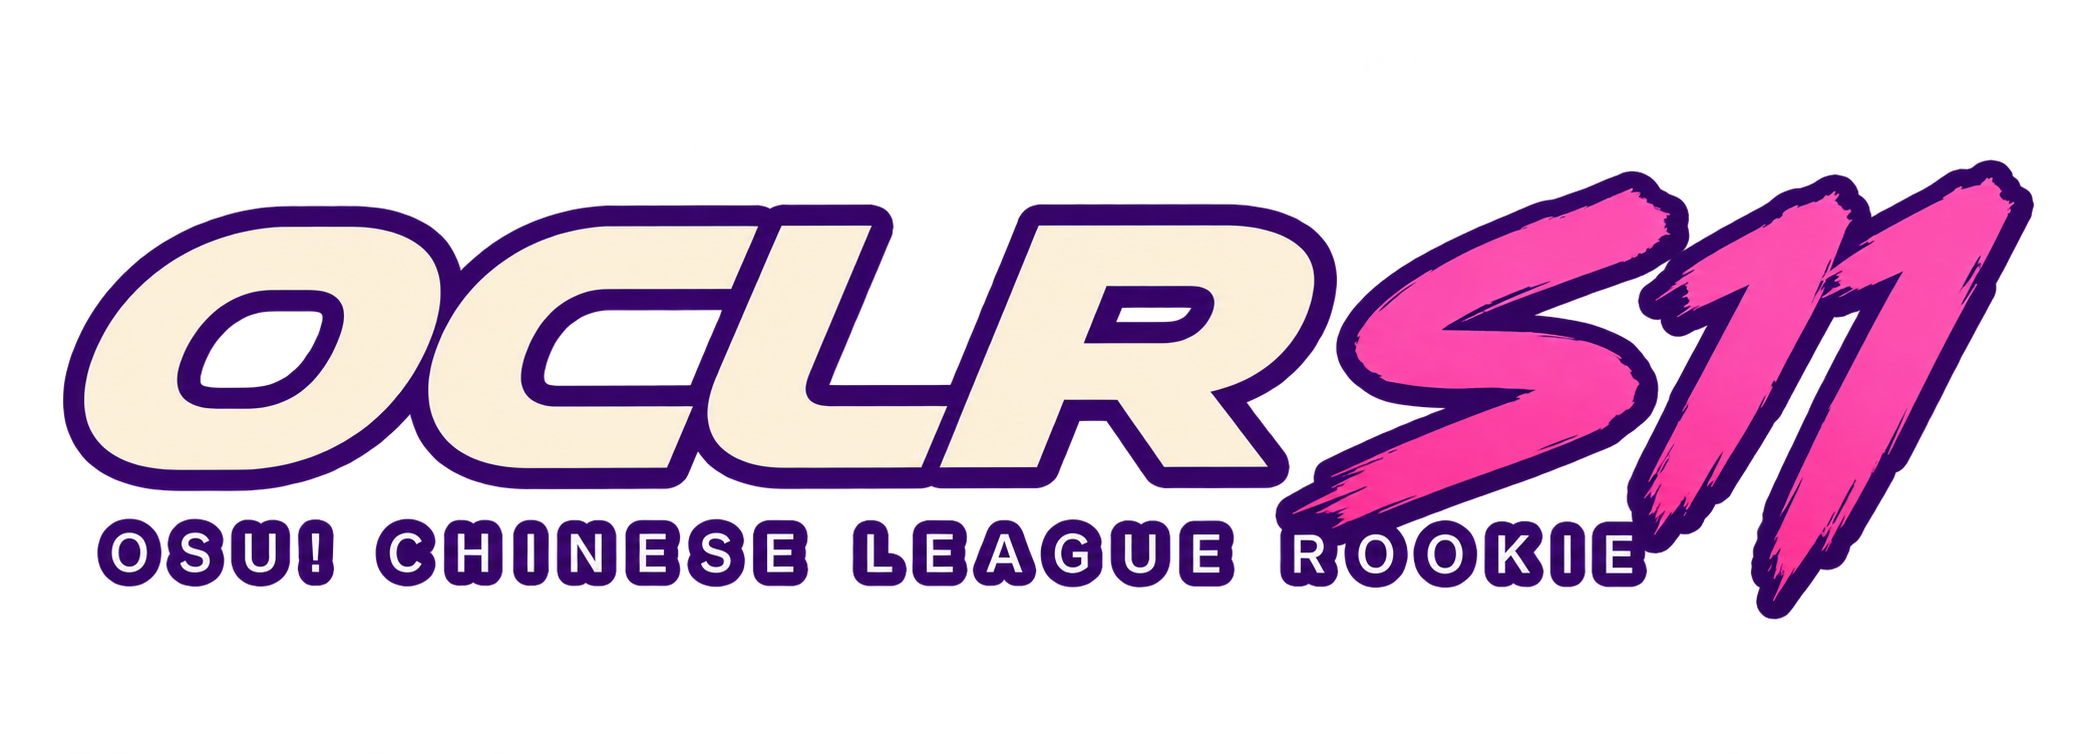
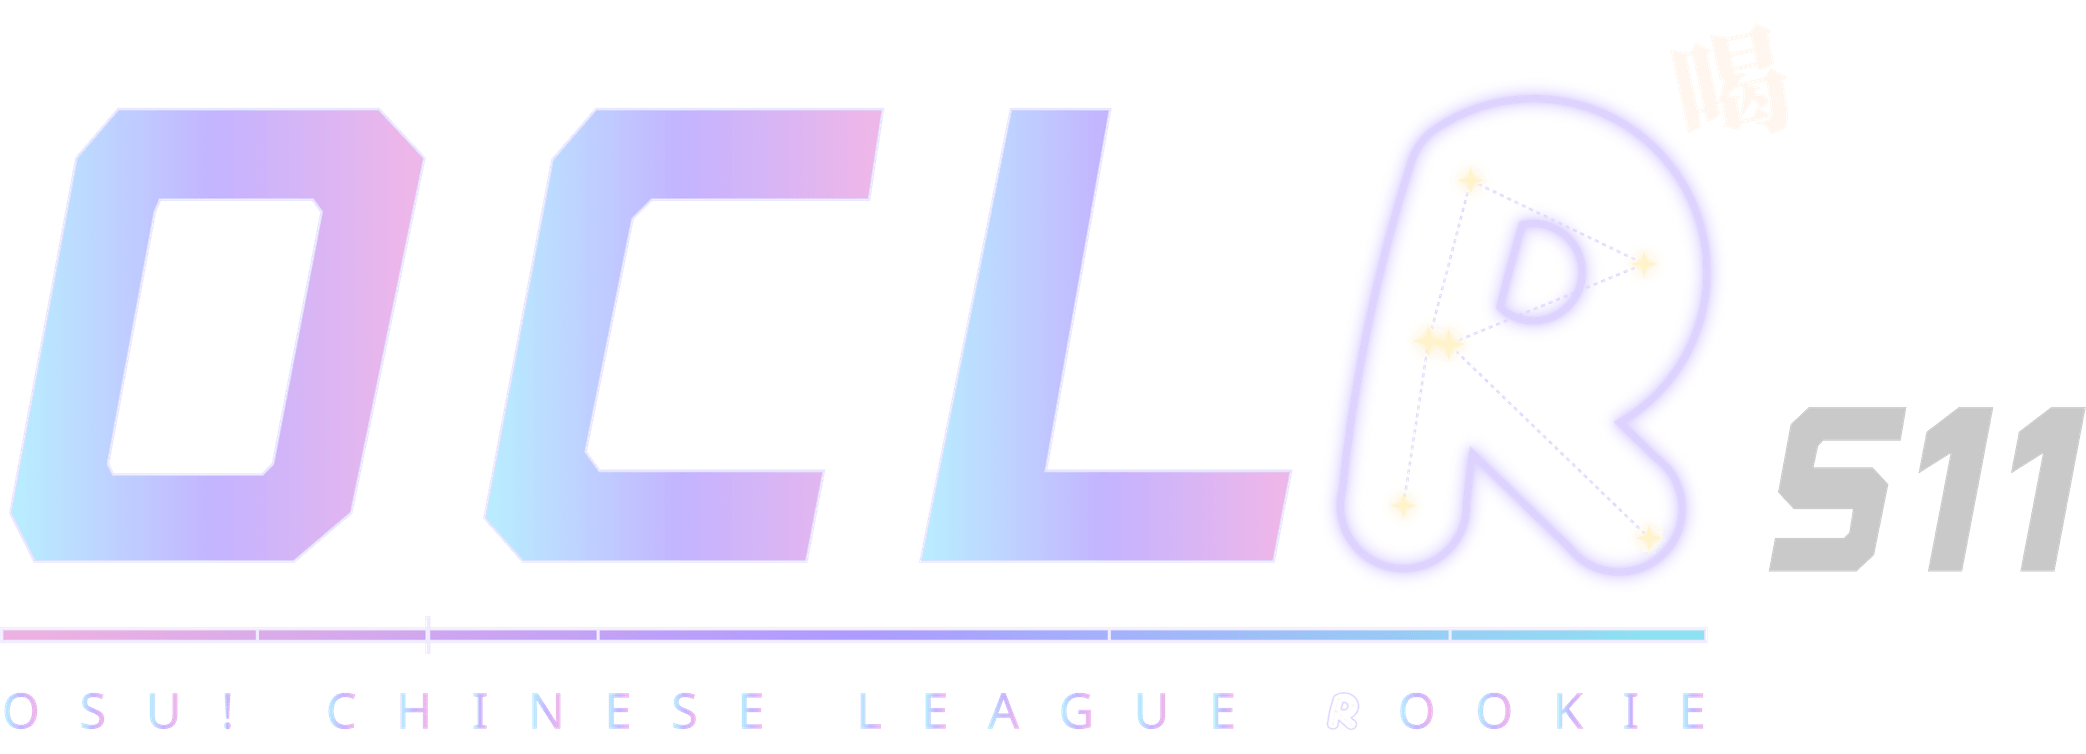
feat(branding): refresh S11 asset family from winter visuals (#421) (#426)

diff --git a/design/home-visual/s11-assets/README.md b/design/home-visual/s11-assets/README.md
@@ -1,0 +1,49 @@
+# S11 winter asset exports
+
+Organizer-requested asset-only follow-up to [PR #421](https://github.com/OCLR-dev/OCLR-website/pull/421), based on merged main `01263bb` (export branch starts at `9e10f72`). Reuses the approved winter nebula, corrected Liru, pastel OCL, constellation R, timing bar, independent 喝 and S11 layers. No new illustration is generated.
+
+## Deliverables
+
+Existing URLs and pixel dimensions are preserved so stored branding values and current components continue to work:
+
+| Public path                                  | Dimensions                | Export                                                                       |
+| -------------------------------------------- | ------------------------- | ---------------------------------------------------------------------------- |
+| `/branding/oclr-s11-logo.svg`                | 1200×490 viewBox          | Complete transparent season logo, copied from the studio's `assets/logo.svg` |
+| `/oclr-s11-classic-wordmark-soft.png`        | 2086×754                  | Transparent PNG of the winter season logo                                    |
+| `/oclr-s11-classic-wordmark.png`             | 2087×754                  | Same winter logo, preserving this existing URL's canvas                      |
+| `/oclr-s11-square-logo.webp`                 | 1200×1200                 | Winter wordmark on a quiet nebula field for existing square thumbnails       |
+| `/oclr-s11-key-visual.webp`                  | 1920×1080                 | Character composition adapted to the existing 16:9 canvas                    |
+| `/oclr-s11-key-visual-enhanced-{width}.webp` | 640×360 through 3840×2160 | Existing six responsive widths: 640, 960, 1280, 1920, 2560, 3840             |
+| `/oclr-s11-website-background.webp`          | 3840×1800                 | The same scene without lettering, preserving the background canvas           |
+| `/oclr-s11-banner.webp`                      | 3840×1280                 | Wide promotional export of the centered winter banner                        |
+
+The existing `/branding/oclr-s11-winter-banner.svg` from #421 already supplies the centered overview banner and is unchanged. The promotional export widens its photographic backdrop while retaining the centered logo and frame proportions. The key visual preserves the homepage's layer placement, with the nebula covering the existing 16:9 canvas. It contains artwork only, without entry links or navigation.
+
+All original studio files, prior generation outputs, alternate swirl wordmarks, global header/favicons and other seasons remain intact. The `enhanced` filenames are compatibility URLs, not a new enhancement claim. Large exports interpolate the existing 2048px nebula and 1024×1536 character; they do not recover native 4K detail. Vector lettering is rasterized at the export density.
+
+## Reproduce
+
+Use Node 24 LTS, Python-free export, npm dependencies and the configured Playwright Chromium browser:
+
+```sh
+npm ci
+npx playwright install chromium
+PLAYWRIGHT_CHANNEL=chromium node design/home-visual/s11-assets/export.mjs
+```
+
+Chromium renders the existing SVG filters, alpha and CSS perspective. Sharp produces the WebP delivery files and palette-compressed transparent PNGs. The script resolves paths relative to itself, reads only checked-in artwork, and writes only the deliverables above. It does not run the app, read environment files, contact a backend or modify studio browser saves.
+
+## Sources and credits
+
+- [Layer studio source/attribution](../layer-studio/README.md) and its retained prompts: nebula, foreground and corrected Liru are existing AI-assisted adaptations from #421.
+- Liru original character design: **JerrYamada**, [character sheet](https://oclr.org/wiki/liru), **CC BY 4.0**. Preserve attribution when sharing the character visual.
+- Promotional/overview banner photograph: **NASA, ESA, M. Robberto (STScI/ESA), Hubble Space Telescope Orion Treasury Project Team**, [Hubble's Sharpest View of the Orion Nebula](https://science.nasa.gov/asset/hubble/hubbles-sharpest-view-of-the-orion-nebula/). Uses the already cropped/compressed photo embedded in #421's SVG, retaining the SVG credit.
+- Logo geometry and provenance remain in the studio sources and earlier design notes; no external font or asset is fetched by the export.
+
+These are S11 season assets. They do not replace the global OCLR header identity or indicate tournament publication, release acceptance or deployment.
+
+## Verification
+
+Performed with Node 24.22.1: `npm ci`; exporter execution in Chromium; visual review of the logo, square thumbnail, character visual and wide banner; Sharp decoding of all 12 raster outputs at their existing dimensions; transparent PNG alpha range 0–255; SVG XML parsing and exact match to the studio logo; ESLint and Prettier for the exporter; `node --check`; `git diff --check`. The existing tournament-branding and homepage-registration unit files passed (12 tests).
+
+The diff contains only assets, this export tool and documentation. Application code, CSS, locale catalogs, database/seed configuration and lockfiles are unchanged. The full application build, database suite and full E2E matrix were not rerun for this asset-only change; new PR CI and organizer review remain separate evidence.

diff --git a/public/branding/README.md b/public/branding/README.md
@@ -38,3 +38,15 @@ compressed, alpha-preserving variants selected by native `picture` / `srcset`.
 Full-resolution editing sources stay in `design/home-visual/layer-studio/assets/`.
 The runtime banner embeds only a 2000×1000 crop of the original NASA photo.
 See the studio README's runtime export commands for reproducible regeneration.
+
+
+## Current S11 asset family — 2026-10-29
+
+The follow-up to PR #421 replaces the existing S11 public image files with the
+winter nebula / corrected Liru / constellation-R design. See
+[`design/home-visual/s11-assets/README.md`](../../design/home-visual/s11-assets/README.md)
+for the complete path list, source credits and reproducible export command.
+`oclr-s11-logo.svg` is the complete transparent season wordmark; the global
+OCLR identity above remains separate. Existing S11 square, key-visual, responsive,
+background, promotional-banner and classic transparent-wordmark URLs remain valid.
+The older swirl wordmark and the source studies remain historical alternatives.

diff --git a/docs/s11-artwork-resolution.md b/docs/s11-artwork-resolution.md
@@ -1,6 +1,16 @@
 # S11 artwork resolution investigation (#173)
 
-## Current purple-outfit artwork — 2026-10-26
+## Current winter artwork — 2026-10-29
+
+The organizer requested updating the S11 Logo, visual and banner assets based on
+PR #421, without changing the interface. The current exports, unchanged public
+paths, source credits and rendering limits are documented in
+[the S11 asset export guide](../design/home-visual/s11-assets/README.md).
+The purple-outfit files described below are retained as historical sources; they
+are superseded for current S11 delivery. No components, CSS, stored configuration,
+publication state or tournament content are changed by this asset replacement.
+
+## Historical purple-outfit artwork — 2026-10-26
 
 The organizer supplied `oclr-s11-purple-c-outfit-1920x1080.png` and requested replacing the current S11 artwork plus high-resolution, banner and logo versions. This supersedes the previous artwork selection described in the historical investigation below.
 
